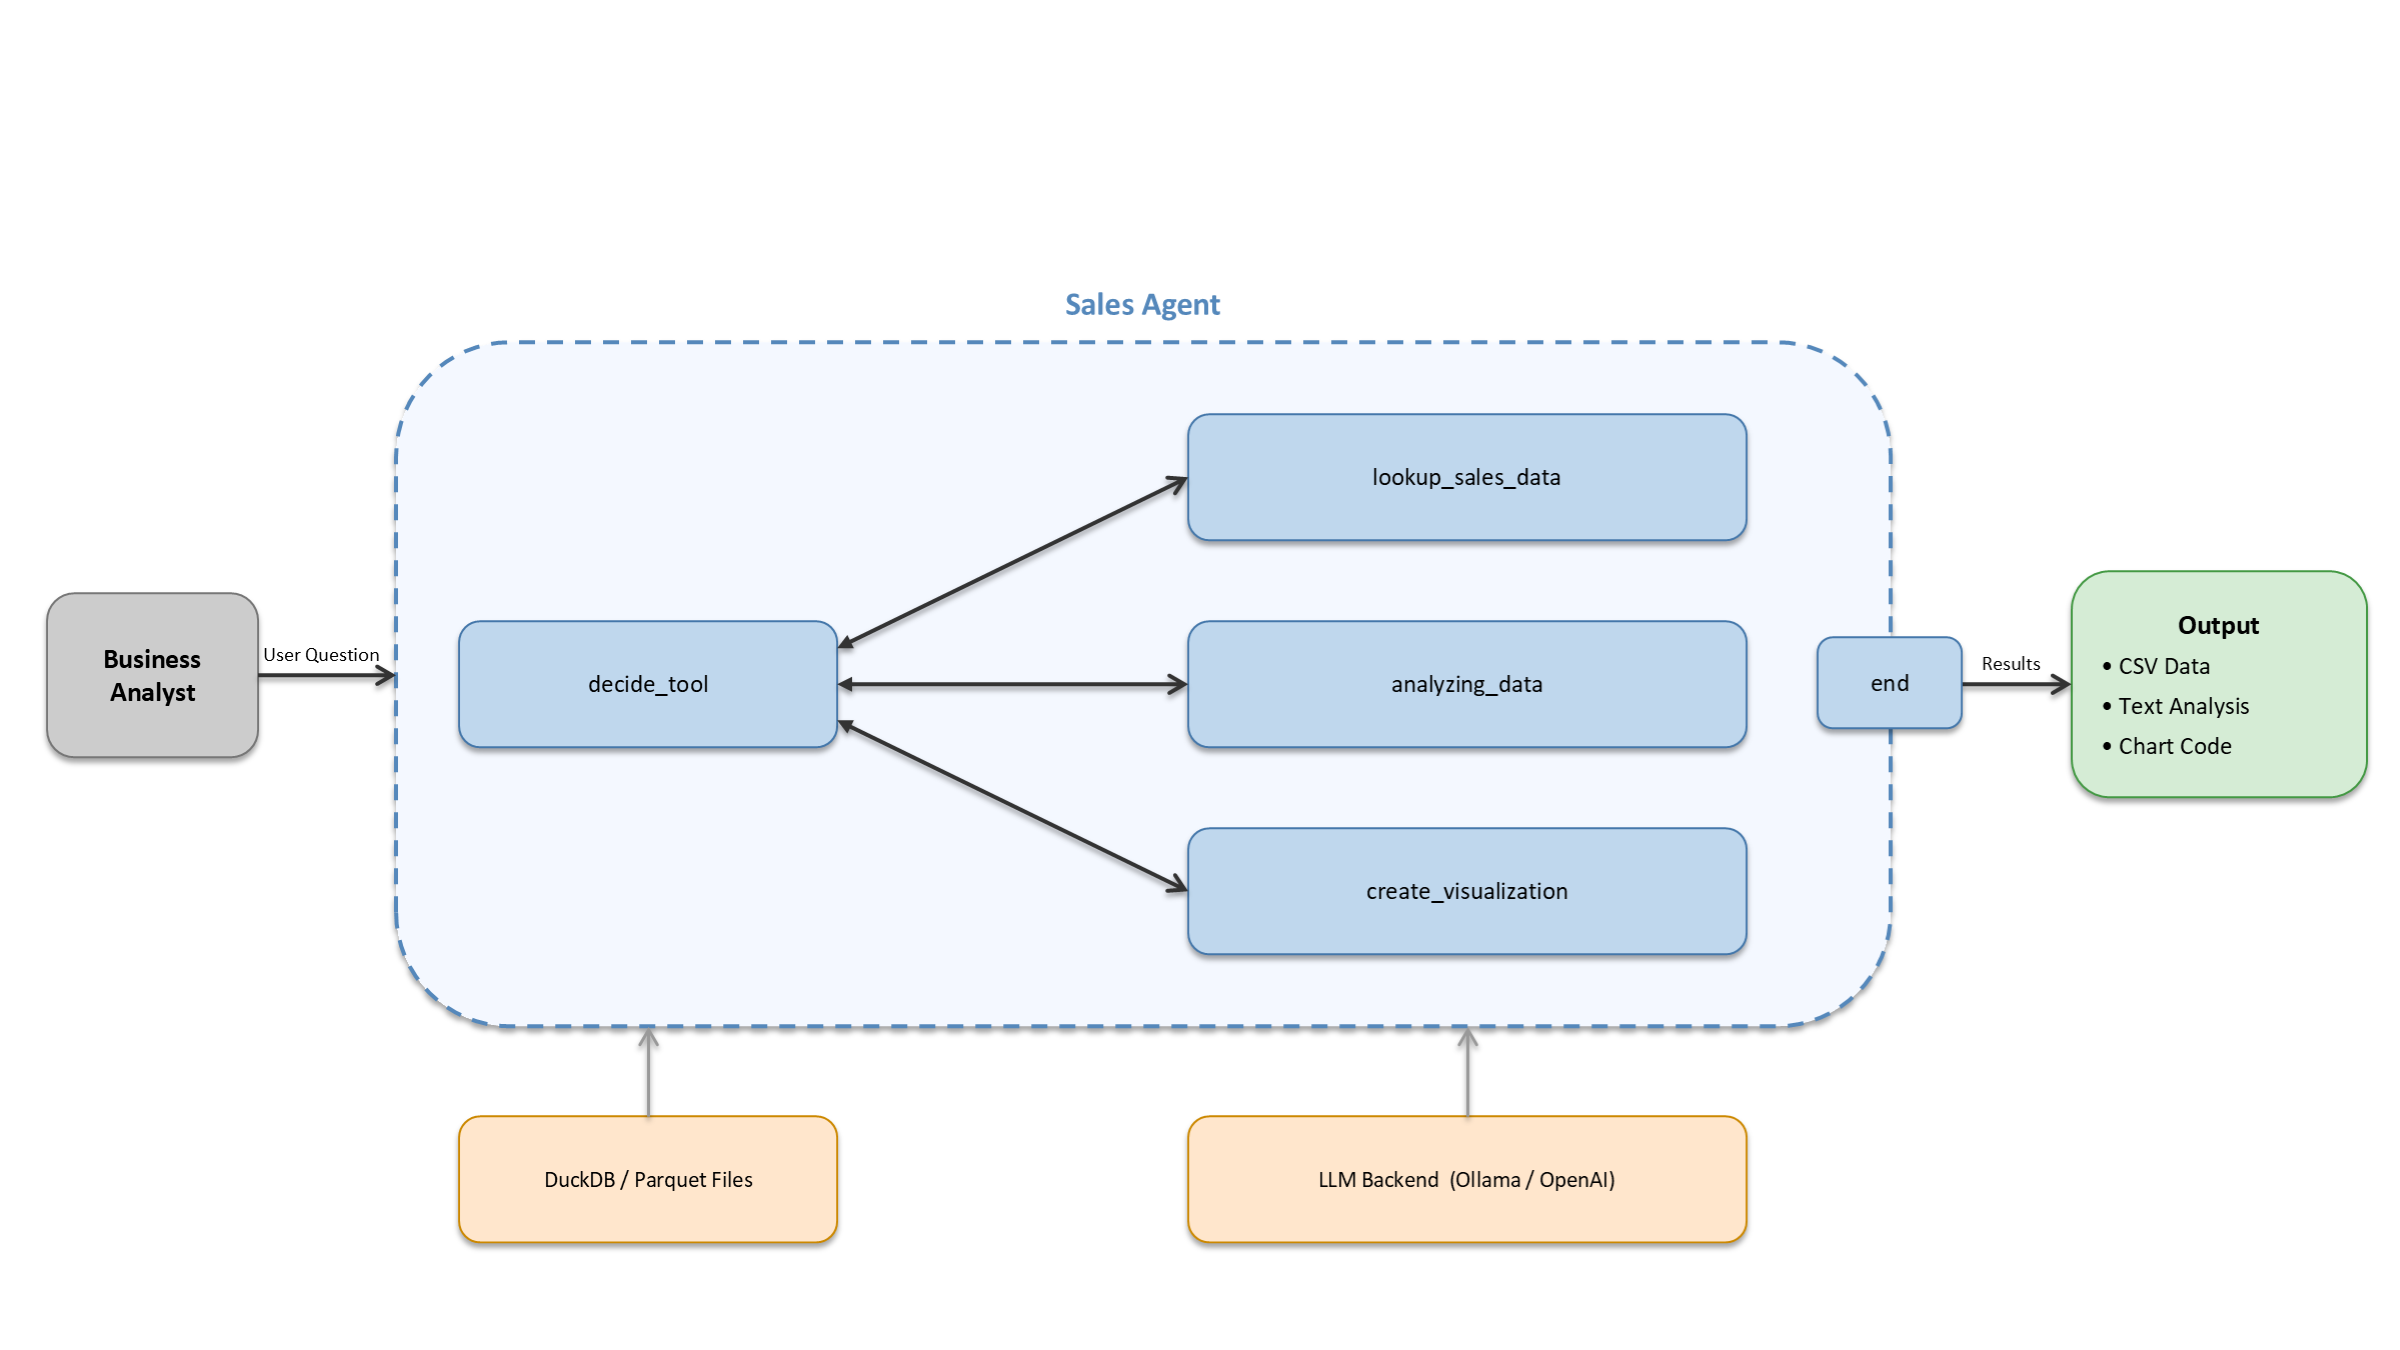
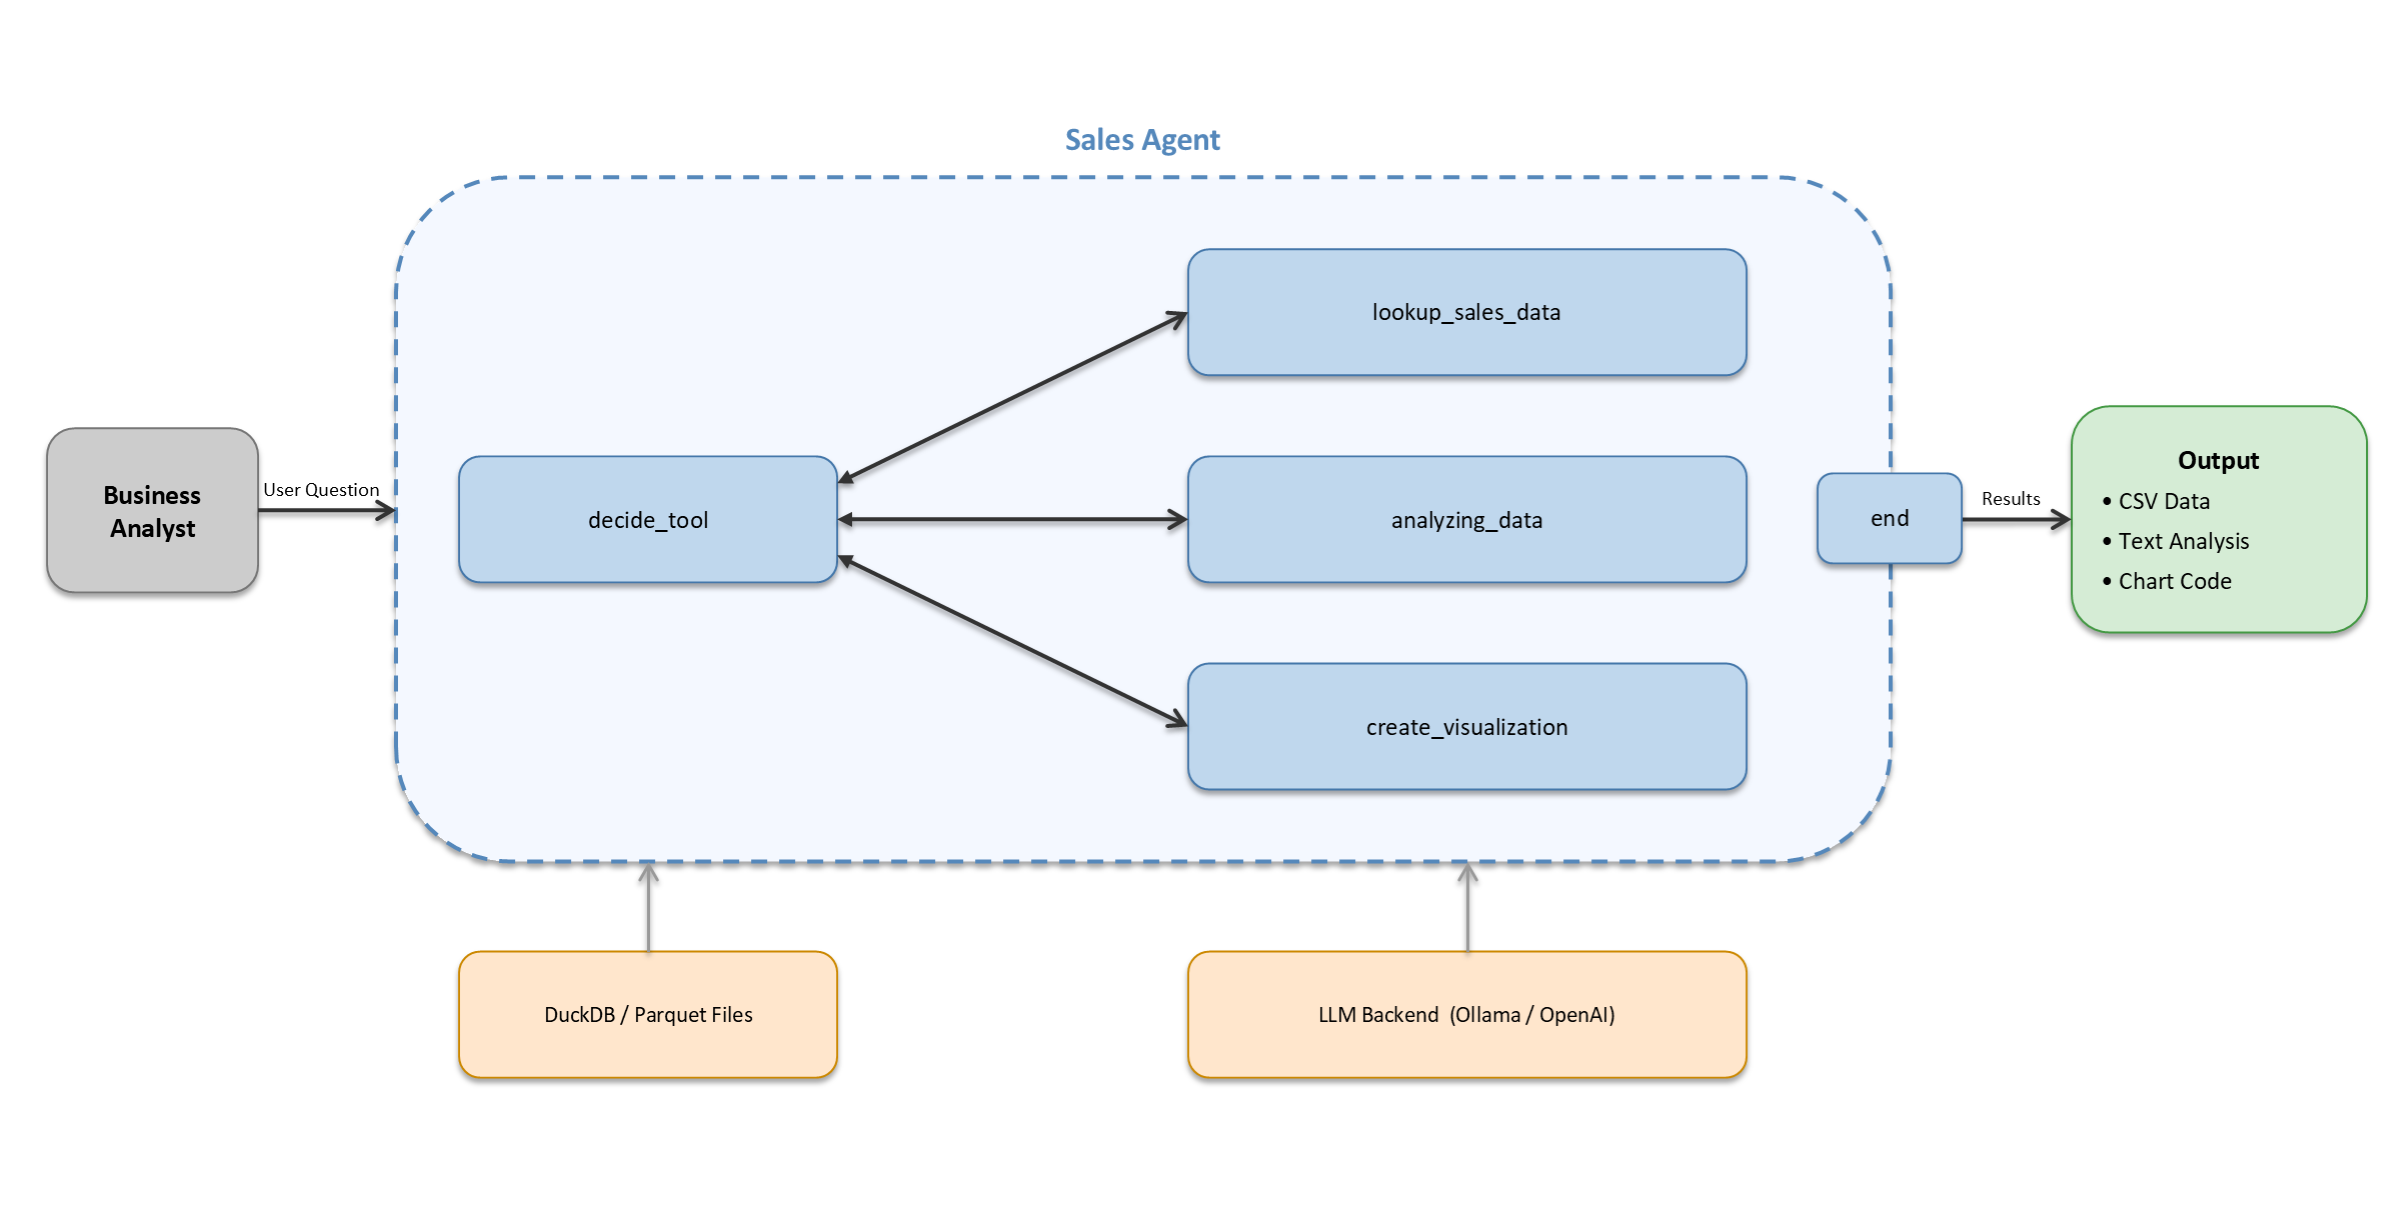
add figure 4 sequence diagram + minor fix of figure 3 and 1

diff --git a/tesi/Thesis.tex b/tesi/Thesis.tex
@@ -213,7 +213,8 @@ showing the flow from user input to final output across the agent's processing p
 
 \begin{figure}[h]
     \centering
-    \includegraphics[width=0.92\textwidth]{fig1_system_overview}
+    \vspace{-8pt}
+    \includegraphics[width=0.92\textwidth]{Images/fig1_system_overview}
     \caption{High-level architecture of the Sales Agent.}
     \label{fig:system_overview}
 \end{figure}
@@ -358,11 +359,22 @@ are stored in the \texttt{State} and appended to the \texttt{answer} list.
 \vspace{0.5em}
 Figure~\ref{fig:sequence} shows the sequence diagram for a full execution of the
 Sales Agent on a question that requires data retrieval, analysis, and visualisation.
+The notation follows a deliberately simplified variant of UML~2 sequence diagrams:
+standard lifelines and message arrows are retained, combined fragments (\texttt{loop}
+and \texttt{opt}) mark the iteration boundary and the optional table-selection step,
+and dashed arrows denote return values. Activation bars, actor stereotypes (e.g.\
+stick figures or boundary symbols), and explicit \emph{create}/\emph{destroy} messages
+have been omitted. Given the density of the diagram~--- nine lifelines and approximately
+35 messages across four iterations~--- these elements would add visual noise without
+improving comprehension; the colour coding of the participant boxes already conveys
+their roles at a glance. This choice prioritises readability over strict UML compliance,
+which is standard practice in academic and industrial documentation when the primary
+goal is to communicate flow rather than to specify a system for code generation.
 
-\begin{figure}[h]
+\begin{figure}[htbp]
     \centering
-    % TODO: insert sequence diagram
-    \fbox{\parbox{0.85\textwidth}{\centering\vspace{3cm}Sequence Diagram\vspace{3cm}}}
+    \includegraphics[width=0.65\textwidth]{Images/fig4_sequence.png}
+    \vspace{-6pt}
     \caption{Sequence diagram of a full Sales Agent execution.}
     \label{fig:sequence}
 \end{figure}